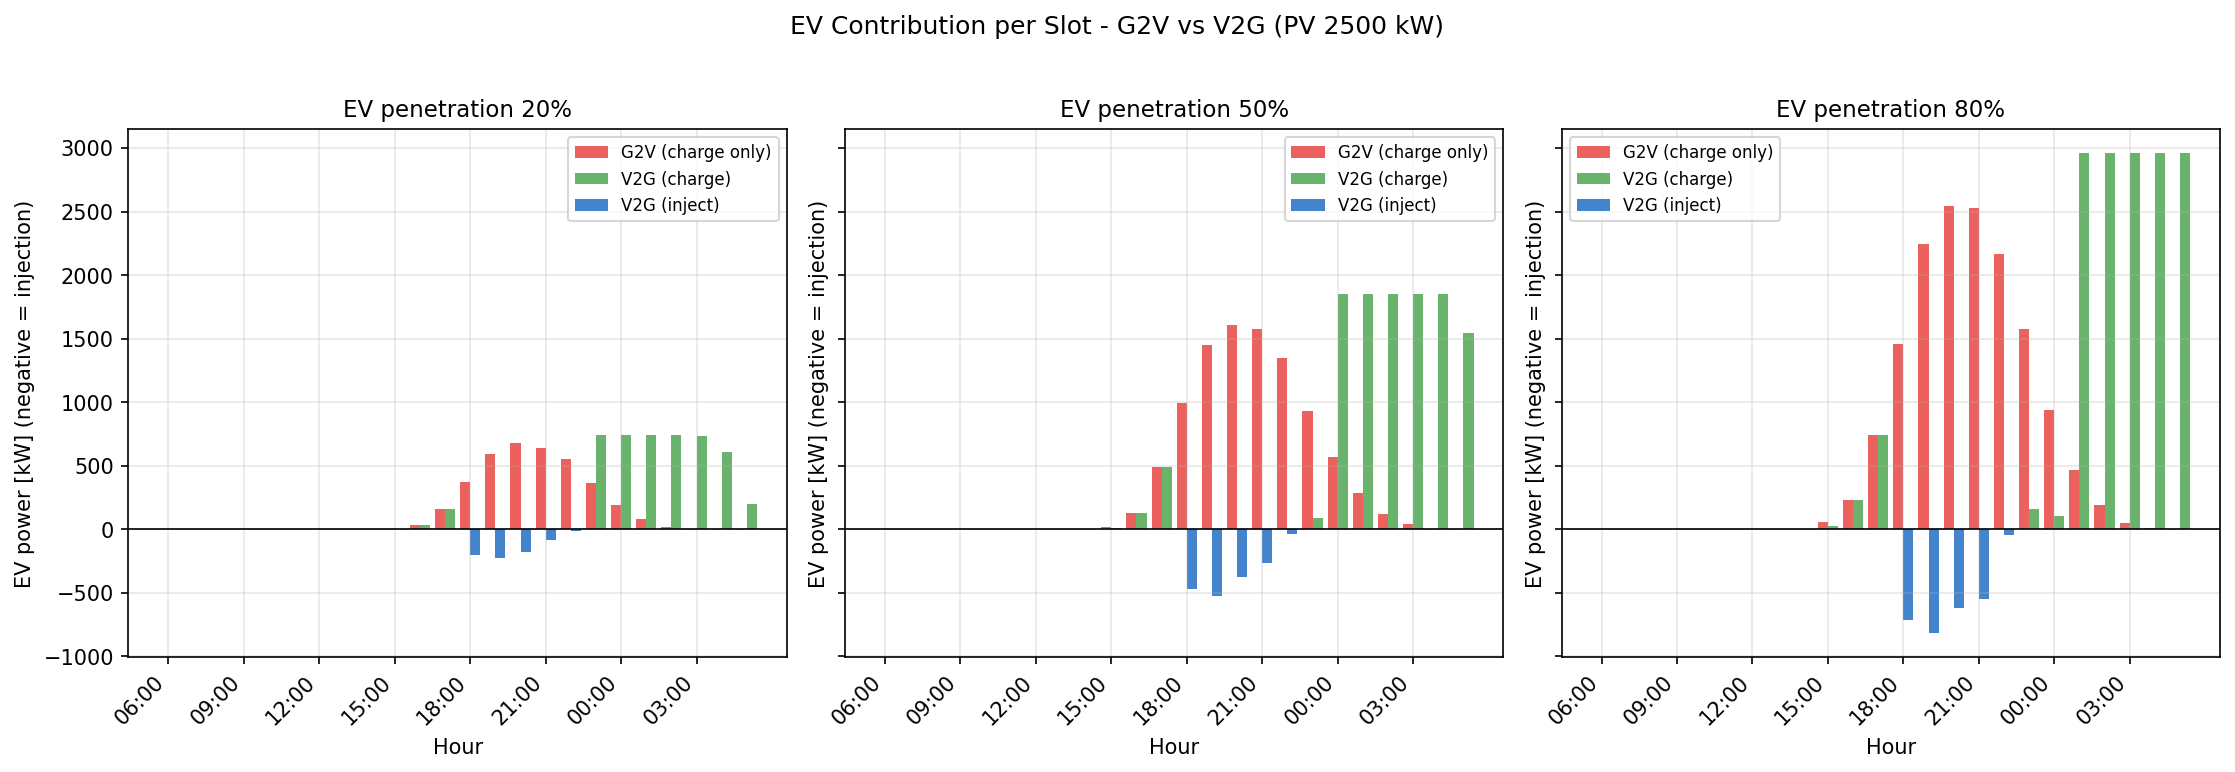
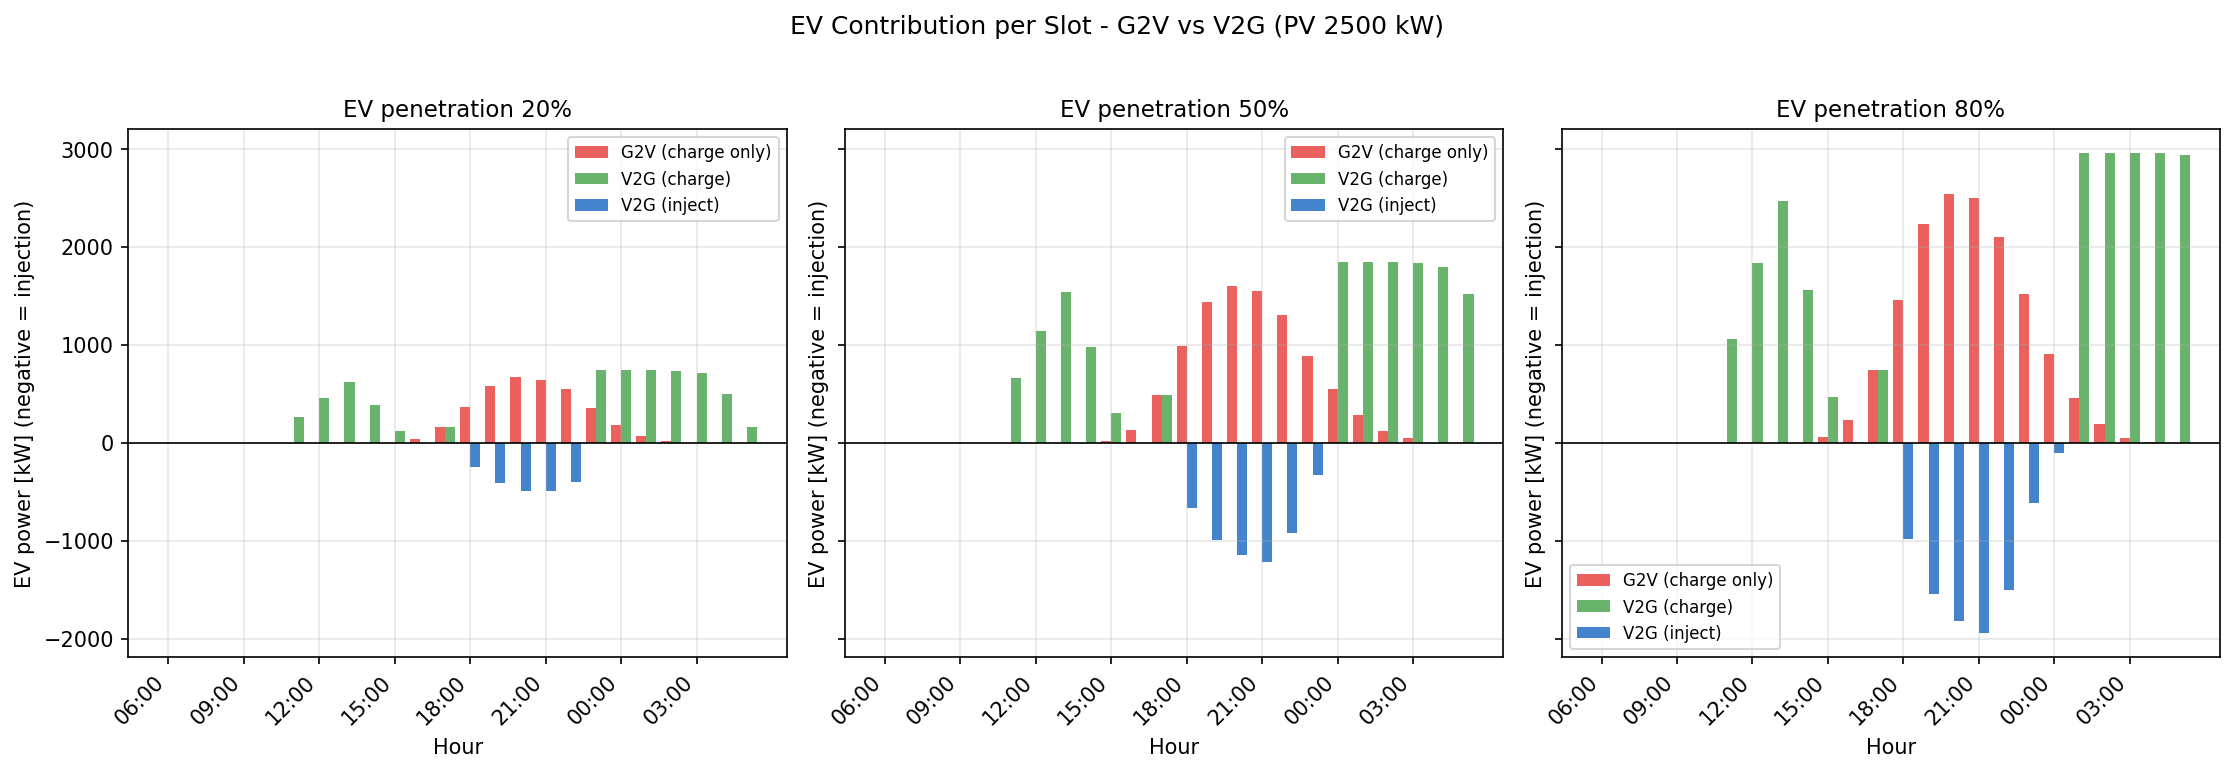
Allowed charging during PV surplus and implemented SoC memory

diff --git a/ev_model.py b/ev_model.py
@@ -12,6 +12,8 @@ SOC_MIN      = 0.20      # minimum SoC to protect battery
 SOC_MAX      = 0.95      # maximum SoC (avoid 100 %)
 EFFICIENCY   = 0.92      # round-trip charge/discharge efficiency
 SIM_START_H  = 6         # simulation starts at 06:00
+WORK_START_H = 9         # work connection window start
+WORK_END_H   = 17        # work connection window end (exclusive)
 
 
 def generate_fleet(seed=42):
@@ -28,11 +30,15 @@ def generate_fleet(seed=42):
     arrival   = np.clip(arrival,   15.0, 23.0)
     departure = np.clip(departure,  6.0, 10.0)
 
+    commute_kwh_total = (SOC_MAX - soc_arrival) * E_BAT
+    commute_kwh_leg = commute_kwh_total / 2.0
+
     fleet = pd.DataFrame({
-        'arrival_h'  : arrival,
-        'departure_h': departure,
-        'soc_arrival': soc_arrival,
-        'soc_current': soc_arrival.copy()
+        "arrival_h": arrival,
+        "departure_h": departure,
+        "soc_arrival": soc_arrival,
+        "soc_current": soc_arrival.copy(),
+        "commute_kwh_leg": commute_kwh_leg,
     })
     return fleet
 
@@ -73,6 +79,18 @@ def _is_connected(h: float, arr: float, dep: float) -> bool:
     return (h >= arr) or (h < dep)
 
 
+def _is_connected_work(h: float) -> bool:
+    """Return True if the EV is plugged in during the work window."""
+    return WORK_START_H <= h < WORK_END_H
+
+
+def _apply_commute_energy(fleet: pd.DataFrame, i: int, kwh: float) -> None:
+    """Apply commute energy use to a single EV's state of charge."""
+    soc = fleet.at[i, "soc_current"]
+    soc -= kwh / E_BAT
+    fleet.at[i, "soc_current"] = float(np.clip(soc, SOC_MIN, SOC_MAX))
+
+
 def simulate_g2v(fleet: pd.DataFrame) -> np.ndarray:
     """
     Uncontrolled G2V: every EV charges at full power as soon as it arrives.
@@ -87,40 +105,45 @@ def simulate_g2v(fleet: pd.DataFrame) -> np.ndarray:
     fleet = _precharge_to_sim_start(fleet)
     total_power   = np.zeros(24)
     n = len(fleet)
-    prev_connected = np.array([
-        _is_connected(SIM_START_H, fleet.at[i, 'arrival_h'], fleet.at[i, 'departure_h'])
-        for i in range(n)
-    ], dtype=bool)
+    prev_connected = np.array(
+        [
+            _is_connected(SIM_START_H, fleet.at[i, "arrival_h"], fleet.at[i, "departure_h"])
+            for i in range(n)
+        ],
+        dtype=bool,
+    )
     
     for slot in range(24):
         h = (SIM_START_H + slot) % 24
         for i in range(n):
-            arr = fleet.at[i, 'arrival_h']
-            dep = fleet.at[i, 'departure_h']
+            arr = fleet.at[i, "arrival_h"]
+            dep = fleet.at[i, "departure_h"]
             connected = _is_connected(h, arr, dep)
 
-            # Reconnection event: EV just returned from a trip.
-            # Reset SoC to soc_arrival (post-driving, partially depleted).
-            # Without this, EVs stay at SOC_MAX all day and show zero
-            # charging demand in the evening (physically wrong).
+            # Apply commute energy on transitions.
+            if prev_connected[i] and not connected:
+                _apply_commute_energy(fleet, i, fleet.at[i, "commute_kwh_leg"])
             if connected and not prev_connected[i]:
-                fleet.at[i, 'soc_current'] = fleet.at[i, 'soc_arrival']
+                _apply_commute_energy(fleet, i, fleet.at[i, "commute_kwh_leg"])
 
             prev_connected[i] = connected
 
-            soc = fleet.at[i, 'soc_current']
+            soc = fleet.at[i, "soc_current"]
             if connected and soc < SOC_MAX:
                 energy_needed  = (SOC_MAX - soc) * E_BAT
                 energy_charged = min(P_CHARGE * EFFICIENCY, energy_needed)
-                fleet.at[i, 'soc_current'] += energy_charged / E_BAT
-                fleet.at[i, 'soc_current']  = min(fleet.at[i, 'soc_current'], SOC_MAX)
+                fleet.at[i, "soc_current"] += energy_charged / E_BAT
+                fleet.at[i, "soc_current"]  = min(fleet.at[i, "soc_current"], SOC_MAX)
                 total_power[slot] += P_CHARGE
 
     return total_power
 
 
-def simulate_v2g(fleet: pd.DataFrame, v_pu_profile: np.ndarray,
-                 pv_surplus: np.ndarray) -> np.ndarray:
+def simulate_v2g(
+    fleet: pd.DataFrame,
+    v_pu_profile: np.ndarray,
+    pv_surplus: np.ndarray,
+) -> np.ndarray:
     """
     Smart V2G: each EV charges/discharges based on bus voltage and PV surplus.
 
@@ -129,52 +152,72 @@ def simulate_v2g(fleet: pd.DataFrame, v_pu_profile: np.ndarray,
     Returns net fleet power [kW] (24,): positive = draw, negative = injection.
     """
     fleet = _precharge_to_sim_start(fleet)
-    total_power    = np.zeros(24)
+    total_power = np.zeros(24)
     n = len(fleet)
-    prev_connected = np.array([
-        _is_connected(SIM_START_H, fleet.at[i, 'arrival_h'], fleet.at[i, 'departure_h'])
-        for i in range(n)
-    ], dtype=bool)
+    prev_home_connected = np.array(
+        [
+            _is_connected(SIM_START_H, fleet.at[i, "arrival_h"], fleet.at[i, "departure_h"])
+            for i in range(n)
+        ],
+        dtype=bool,
+    )
+    prev_work_connected = np.array(
+        [_is_connected_work(SIM_START_H) for _ in range(n)],
+        dtype=bool,
+    )
     
     for slot in range(24):
         h = (SIM_START_H + slot) % 24
         v = v_pu_profile[slot]
         ps = pv_surplus[slot]
         for i in range(n):
-            arr = fleet.at[i, 'arrival_h']
-            dep = fleet.at[i, 'departure_h']
-            connected = _is_connected(h, arr, dep)
+            arr = fleet.at[i, "arrival_h"]
+            dep = fleet.at[i, "departure_h"]
+            connected_home = _is_connected(h, arr, dep)
+            connected_work = _is_connected_work(h)
+            connected = connected_home or connected_work
 
-            # Reset SoC on reconnection (same logic as G2V)
-            if connected and not prev_connected[i]:
-                fleet.at[i, 'soc_current'] = fleet.at[i, 'soc_arrival']
+            # Apply commute energy on transitions.
+            if prev_home_connected[i] and not connected_home:
+                _apply_commute_energy(fleet, i, fleet.at[i, "commute_kwh_leg"])
+            if prev_work_connected[i] and not connected_work:
+                _apply_commute_energy(fleet, i, fleet.at[i, "commute_kwh_leg"])
 
-            prev_connected[i] = connected
+            prev_home_connected[i] = connected_home
+            prev_work_connected[i] = connected_work
 
             if not connected:
                 continue
 
-            soc = fleet.at[i, 'soc_current']
+            soc = fleet.at[i, "soc_current"]
 
-            if v > 1.03 and soc < SOC_MAX:
-                p = P_CHARGE
-                fleet.at[i, 'soc_current'] += (p * EFFICIENCY) / E_BAT
-            elif v < 0.97 and soc > SOC_MIN + 0.1:
-                p = -P_DISCHARGE
-                fleet.at[i, 'soc_current'] -= P_DISCHARGE / (E_BAT * EFFICIENCY)
-            else:
-                # Within acceptable voltage band: keep normal charging behavior
-                if soc < SOC_MAX:
-                    if ps > 0:
-                        p = min(P_CHARGE, ps / N_EV * 10)
-                    else:
-                        p = P_CHARGE
-                    fleet.at[i, 'soc_current'] += (p * EFFICIENCY) / E_BAT
+            if connected_work and not connected_home:
+                # PV-driven charging only during work hours.
+                if ps > 0 and soc < SOC_MAX:
+                    p = min(P_CHARGE, ps / N_EV * 10)
+                    fleet.at[i, "soc_current"] += (p * EFFICIENCY) / E_BAT
                 else:
                     p = 0
+            else:
+                if v > 1.03 and soc < SOC_MAX:
+                    p = P_CHARGE
+                    fleet.at[i, "soc_current"] += (p * EFFICIENCY) / E_BAT
+                elif v < 0.97 and soc > SOC_MIN + 0.1:
+                    p = -P_DISCHARGE
+                    fleet.at[i, "soc_current"] -= P_DISCHARGE / (E_BAT * EFFICIENCY)
+                else:
+                    # Within acceptable voltage band: keep normal charging behavior
+                    if soc < SOC_MAX:
+                        if ps > 0:
+                            p = min(P_CHARGE, ps / N_EV * 10)
+                        else:
+                            p = P_CHARGE
+                        fleet.at[i, "soc_current"] += (p * EFFICIENCY) / E_BAT
+                    else:
+                        p = 0
 
-            fleet.at[i, 'soc_current'] = np.clip(
-                fleet.at[i, 'soc_current'], SOC_MIN, SOC_MAX
+            fleet.at[i, "soc_current"] = np.clip(
+                fleet.at[i, "soc_current"], SOC_MIN, SOC_MAX
             )
             total_power[slot] += p
 
